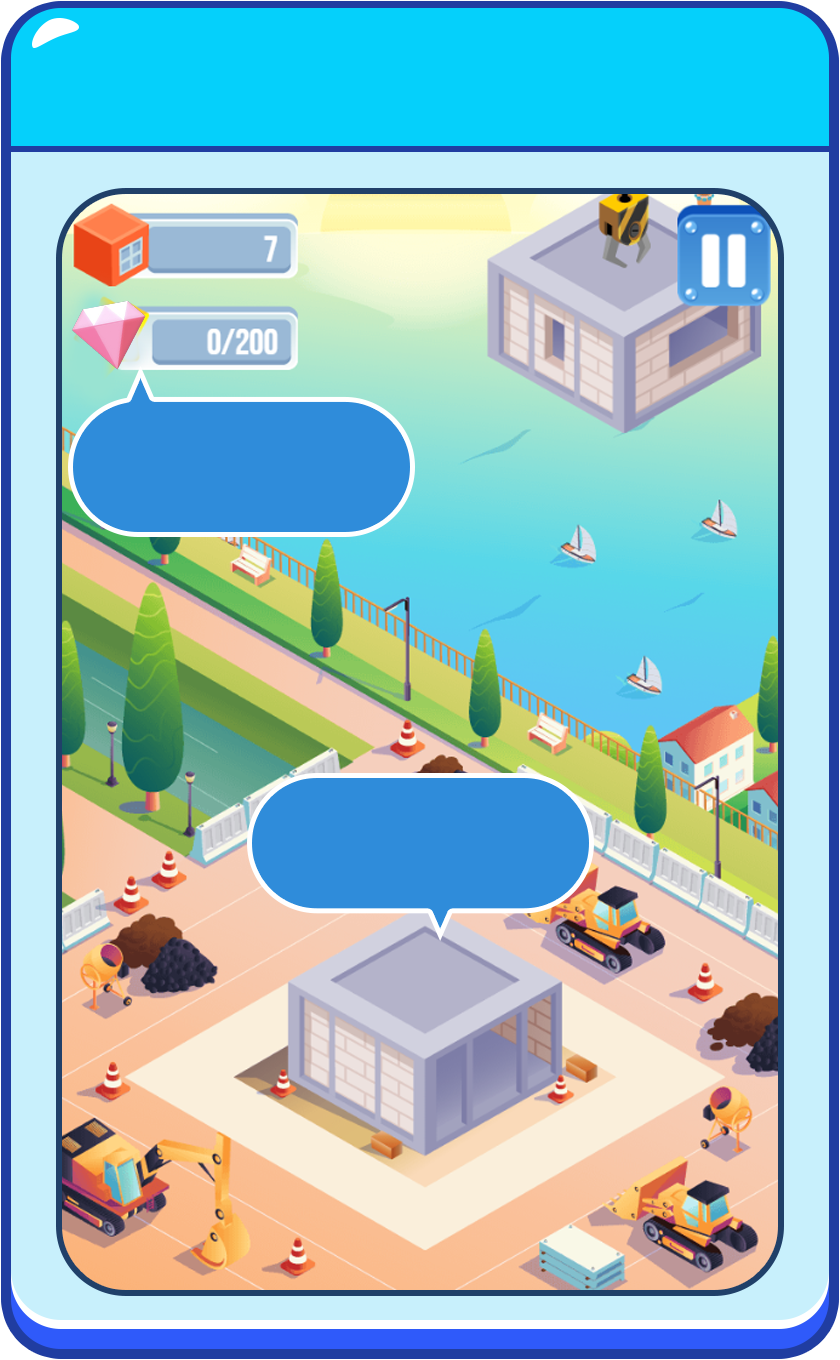
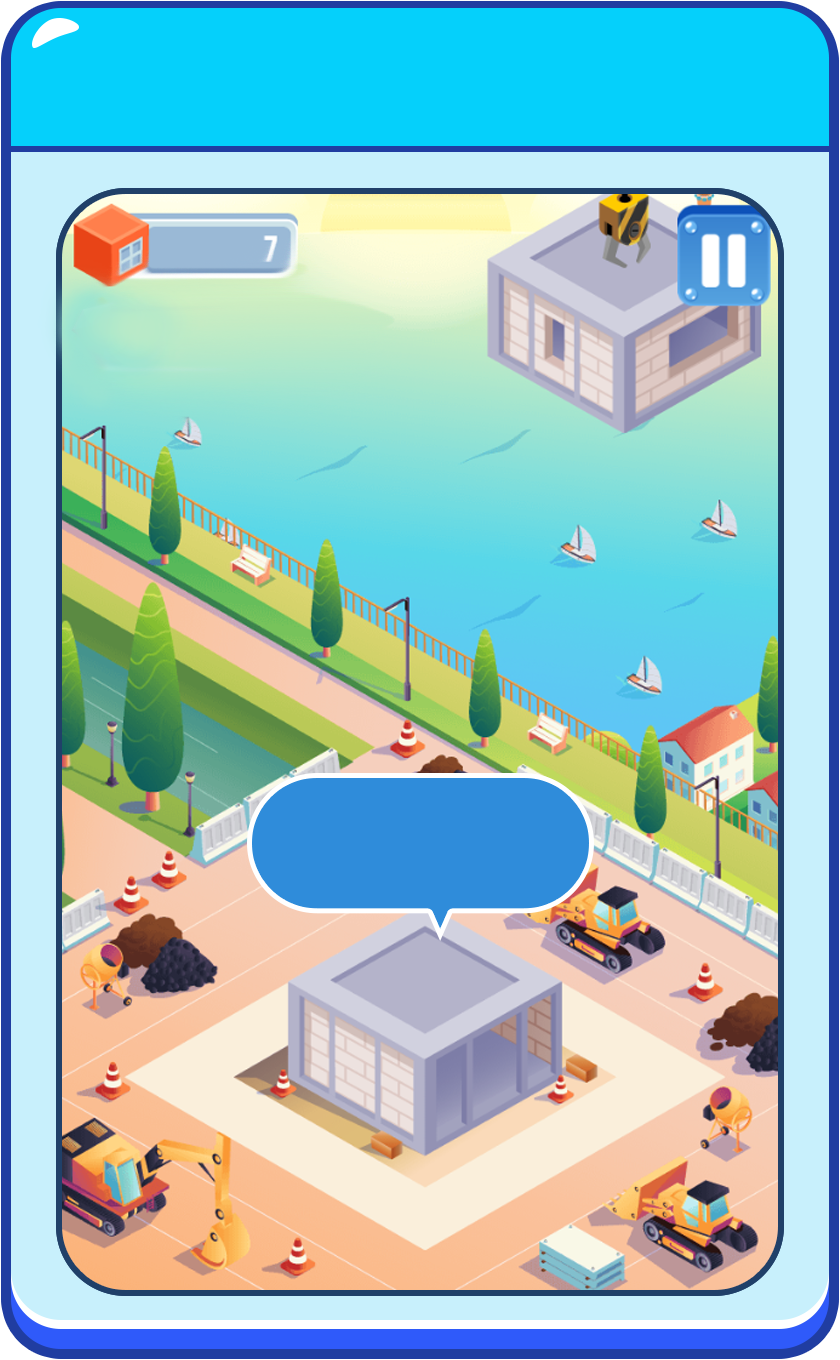
Ui changes in FTUE , gameplay and win lose screen

Changed region(s): [[0.0619, 0.1853, 0.4952, 0.4015]]

diff --git a/src/scenes/LevelSelect.ts b/src/scenes/LevelSelect.ts
@@ -68,6 +68,19 @@ export default class LevelSelect extends Phaser.Scene {
 		tutorialText.setStyle({ "align": "center", "fontFamily": "CarterOne-Regular", "fontSize": "35px", "stroke": "#000000ff", "strokeThickness": 3 });
 		mapUiContainer.add(tutorialText);
 
+		// levelBase
+		const levelBase = this.add.image(487, 661, "Level-Bg");
+		levelBase.scaleX = 1.8253848813480107;
+		levelBase.scaleY = 1.8253848813480107;
+		mapUiContainer.add(levelBase);
+
+		// lockImg
+		const lockImg = this.add.image(482, 644, "LockIcon");
+		lockImg.scaleX = 0.40805543546350576;
+		lockImg.scaleY = 0.40805543546350576;
+		lockImg.visible = false;
+		mapUiContainer.add(lockImg);
+
 		// popupDark
 		const popupDark = this.add.rectangle(0, 0, 720, 1080);
 		popupDark.scaleX = 1.505657351827596;
@@ -153,7 +166,6 @@ export default class LevelSelect extends Phaser.Scene {
 		// game_start_panel_container
 		const game_start_panel_container = this.add.container(540, 960);
 		game_start_panel_container.name = "game_start_panel_container";
-		game_start_panel_container.visible = false;
 
 		// blur_bg_1
 		const blur_bg_1 = this.add.image(8, 0, "blur-bg");
@@ -168,6 +180,7 @@ export default class LevelSelect extends Phaser.Scene {
 		// naz_text3
 		const naz_text3 = this.add.image(-172, -168, "naz-text3");
 		naz_text3.name = "naz_text3";
+		naz_text3.visible = false;
 		game_start_panel_container.add(naz_text3);
 
 		// naz_text1
@@ -221,6 +234,8 @@ export default class LevelSelect extends Phaser.Scene {
 		this.locationMarker = locationMarker;
 		this.tutorialBG = tutorialBG;
 		this.tutorialText = tutorialText;
+		this.levelBase = levelBase;
+		this.lockImg = lockImg;
 		this.mapUiContainer = mapUiContainer;
 		this.popupDark = popupDark;
 		this.popupBg = popupBg;
@@ -245,6 +260,8 @@ export default class LevelSelect extends Phaser.Scene {
 	private locationMarker!: Phaser.GameObjects.Image;
 	private tutorialBG!: Phaser.GameObjects.Image;
 	private tutorialText!: Phaser.GameObjects.Text;
+	private levelBase!: Phaser.GameObjects.Image;
+	private lockImg!: Phaser.GameObjects.Image;
 	private mapUiContainer!: Phaser.GameObjects.Container;
 	private popupDark!: Phaser.GameObjects.Rectangle;
 	private popupBg!: Phaser.GameObjects.Image;
@@ -267,6 +284,9 @@ export default class LevelSelect extends Phaser.Scene {
     private previousPanel: string = GAME_PANEL.NONE;
     private currentPanel: string = GAME_PANEL.NONE;
     private completedBuildings: Phaser.GameObjects.Image[] = [];
+    private levelLabels: Phaser.GameObjects.Text[] = [];
+    private lockBases: Phaser.GameObjects.Image[] = [];
+    private lockIcons: Phaser.GameObjects.Image[] = [];
     private homeBtnNode!: Phaser.GameObjects.Sprite;
     private startBtnNode!: Phaser.GameObjects.Sprite;
     private popupPlayBtnNode!: Phaser.GameObjects.Sprite;
@@ -500,6 +520,12 @@ export default class LevelSelect extends Phaser.Scene {
     private renderLevelMap(): void {
         this.completedBuildings.forEach((item) => item.destroy());
         this.completedBuildings = [];
+        this.levelLabels.forEach((t) => t.destroy());
+        this.levelLabels = [];
+        this.lockBases.forEach((b) => b.destroy());
+        this.lockBases = [];
+        this.lockIcons.forEach((i) => i.destroy());
+        this.lockIcons = [];
 
         LEVELS.forEach((data, index) => {
             if (index < gameState.currentLevel) {
@@ -521,36 +547,80 @@ export default class LevelSelect extends Phaser.Scene {
 
                 this.mapWorldContainer.add(building);
                 this.completedBuildings.push(building);
+            } else if (index !== gameState.currentLevel) {
+                // Locked level — layer order: levelBase (bottom) → lockImg → Level text (top)
+
+                // 1. Base platform
+                const base = this.add.image(data.x, data.y+10, "Level-Bg").setOrigin(0.5, 0.5);
+                base.scaleX = 1.8253848813480;
+                base.scaleY = 1.8253848813480;
+                this.mapWorldContainer.add(base);
+                this.lockBases.push(base);
+
+                // 2. Lock icon
+                const lock = this.add.image(data.x, data.y-30, "LockIcon").setOrigin(0.5, 0.5);
+                lock.scaleX = 0.40805543546350576;
+                lock.scaleY = 0.40805543546350576;
+                this.mapWorldContainer.add(lock);
+                this.lockIcons.push(lock);
+
+                // 3. Level label (topmost)
+                const label = this.add.text(
+                    data.x,
+                    data.y+30,
+                    `Level ${index + 1}`,
+                    {
+                        fontFamily: "CarterOne-Regular",
+                        fontSize: "38px",
+                        color: "#ffffff",
+                        stroke: "#000000",
+                        strokeThickness: 6,
+                        align: "center"
+                    }
+                ).setOrigin(0.5, 0.5);
+                this.mapWorldContainer.add(label);
+                this.levelLabels.push(label);
             }
         });
 
-        // Position the "next unlock" button at the current (locked) level slot
-        const current = LEVELS[gameState.currentLevel] ?? LEVELS[LEVELS.length - 1];
-        this.startLevelButton.setPosition(current.x, current.y);
-        this.locationMarker.setPosition(current.x, current.y - 120);
+        const allLevelsComplete = gameState.currentLevel >= LEVELS.length;
 
-        // Position tutorial elements relative to locationMarker (preserving original y offsets: +278, +293)
-        this.tutorialBG.setPosition(current.x, this.locationMarker.y + 278);
-        this.tutorialText.setPosition(current.x, this.locationMarker.y + 293);
-
-        const ordinals = ["first", "second", "third", "fourth", "fifth", "sixth", "seventh", "eighth"];
-        const ordinal = ordinals[gameState.currentLevel] ?? `${gameState.currentLevel + 1}th`;
-        this.tutorialText.setText(`Tap here for the \n${ordinal} level`);
-
+        // Hide start button, marker and tutorial when all levels are done
+        this.startLevelButton.setVisible(!allLevelsComplete);
+        this.locationMarker.setVisible(!allLevelsComplete);
+        this.tutorialBG.setVisible(!allLevelsComplete);
+        this.tutorialText.setVisible(!allLevelsComplete);
         this.tweens.killTweensOf(this.locationMarker);
-        this.tweens.add({
-            targets: this.locationMarker,
-            y: this.locationMarker.y - 80,
-            duration: 600,
-            ease: "Sine.easeInOut",
-            yoyo: true,
-            repeat: -1
-        });
+
+        if (!allLevelsComplete) {
+            // Position the "next unlock" button at the current (locked) level slot
+            const current = LEVELS[gameState.currentLevel];
+            this.startLevelButton.setPosition(current.x, current.y);
+            this.locationMarker.setPosition(current.x, current.y - 120);
+
+            // Position tutorial elements relative to locationMarker (preserving original y offsets: +278, +293)
+            this.tutorialBG.setPosition(current.x, this.locationMarker.y + 278);
+            this.tutorialText.setPosition(current.x, this.locationMarker.y + 293);
+
+            const ordinals = ["first", "second", "third", "fourth", "fifth", "sixth", "seventh", "eighth"];
+            const ordinal = ordinals[gameState.currentLevel] ?? `${gameState.currentLevel + 1}th`;
+            this.tutorialText.setText(`Tap here for the \n${ordinal} level`);
+
+            this.tweens.add({
+                targets: this.locationMarker,
+                y: this.locationMarker.y - 80,
+                duration: 600,
+                ease: "Sine.easeInOut",
+                yoyo: true,
+                repeat: -1
+            });
+        }
     }
 
     private updateTutorialVisibility(): void {
-        this.tutorialBG.setVisible(true);
-        this.tutorialText.setVisible(true);
+        const allLevelsComplete = gameState.currentLevel >= LEVELS.length;
+        this.tutorialBG.setVisible(!allLevelsComplete);
+        this.tutorialText.setVisible(!allLevelsComplete);
     }
 
     private hideTutorial(): void {

diff --git a/src/scenes/Level.ts b/src/scenes/Level.ts
@@ -285,6 +285,7 @@ export default class Level extends Phaser.Scene {
 		const highScore_Panel_1 = this.add.image(52, 189, "bar-points");
 		highScore_Panel_1.scaleX = 1.1785911243279024;
 		highScore_Panel_1.scaleY = 1.1785911243279024;
+		highScore_Panel_1.visible = false;
 		top_ui_container.add(highScore_Panel_1);
 
 		// gem
@@ -292,23 +293,25 @@ export default class Level extends Phaser.Scene {
 		gem.name = "gem";
 		gem.scaleX = 0.8395470376849977;
 		gem.scaleY = 0.8395470376849977;
+		gem.visible = false;
 		top_ui_container.add(gem);
 
 		// txtPoints
 		const txtPoints = this.add.text(81, 195, "", {});
 		txtPoints.setOrigin(0.5, 0.5);
+		txtPoints.visible = false;
 		txtPoints.text = "0/0";
 		txtPoints.setStyle({ "align": "right", "fontFamily": "CarterOne-Regular", "fontSize": "35px" });
 		top_ui_container.add(txtPoints);
 
 		// highScore_Panel_2
-		const highScore_Panel_2 = this.add.image(47, 299, "bar-blocks");
+		const highScore_Panel_2 = this.add.image(47, 187, "bar-blocks");
 		highScore_Panel_2.scaleX = 1.1028507950415196;
 		highScore_Panel_2.scaleY = 1.1028507950415196;
 		top_ui_container.add(highScore_Panel_2);
 
 		// txtBlocks
-		const txtBlocks = this.add.text(96, 304, "", {});
+		const txtBlocks = this.add.text(96, 192, "", {});
 		txtBlocks.setOrigin(1, 0.5);
 		txtBlocks.text = "0";
 		txtBlocks.setStyle({ "align": "right", "fontFamily": "CarterOne-Regular", "fontSize": "35px" });
@@ -413,12 +416,17 @@ export default class Level extends Phaser.Scene {
 		const low_score = this.add.text(816, 1075, "", {});
 		low_score.name = "low_score";
 		low_score.setOrigin(0.5, 0.5);
+		low_score.visible = false;
 		low_score.text = "000";
 		low_score.setStyle({ "align": "center", "color": "#ffffffff", "fontFamily": "CarterOne-Regular", "fontSize": "85PX", "stroke": "#1a60b6", "strokeThickness": 10 });
 		game_over_lose_panel_container.add(low_score);
 
+		// image_5
+		const image_5 = this.add.image(522, 1025, "SuperCoinBG");
+		game_over_lose_panel_container.add(image_5);
+
 		// Supercoin_text
-		const supercoin_text = this.add.text(419, 1074, "", {});
+		const supercoin_text = this.add.text(571, 1059, "", {});
 		supercoin_text.setOrigin(0.5, 0.5);
 		supercoin_text.text = "0";
 		supercoin_text.setStyle({ "align": "center", "fontFamily": "CarterOne-Regular", "fontSize": "85px", "stroke": "#a77203ff", "strokeThickness": 10 });
@@ -426,6 +434,7 @@ export default class Level extends Phaser.Scene {
 
 		// gem_3
 		const gem_3 = this.add.image(648, 1074, "gem");
+		gem_3.visible = false;
 		game_over_lose_panel_container.add(gem_3);
 
 		// logo1
@@ -435,6 +444,10 @@ export default class Level extends Phaser.Scene {
 		// exit_from_lose_screen_btn
 		const exit_from_lose_screen_btn = this.add.image(540, 1522, "exit-game-btn");
 		game_over_lose_panel_container.add(exit_from_lose_screen_btn);
+
+		// image_6
+		const image_6 = this.add.image(473, 1061, "Coin");
+		game_over_lose_panel_container.add(image_6);
 
 		// game_over_win_panel_container
 		const game_over_win_panel_container = this.add.container(0, 0);
@@ -497,6 +510,7 @@ export default class Level extends Phaser.Scene {
 		const high_score_1 = this.add.text(810, 1076, "", {});
 		high_score_1.name = "high_score_1";
 		high_score_1.setOrigin(0.5, 0.5);
+		high_score_1.visible = false;
 		high_score_1.text = "000";
 		high_score_1.setStyle({ "align": "center", "color": "#ffffffff", "fontFamily": "CarterOne-Regular", "fontSize": "85PX", "stroke": "#1a60b6", "strokeThickness": 10 });
 		game_over_win_panel_container.add(high_score_1);
@@ -505,6 +519,7 @@ export default class Level extends Phaser.Scene {
 		const gem_2 = this.add.image(652, 1076, "gem");
 		gem_2.scaleX = 1.1889856074071514;
 		gem_2.scaleY = 1.1889856074071514;
+		gem_2.visible = false;
 		game_over_win_panel_container.add(gem_2);
 
 		// Bottom_text_2
@@ -516,8 +531,12 @@ export default class Level extends Phaser.Scene {
 		bottom_text_2.setStyle({ "color": "#ffffffff", "fontFamily": "CarterOne-Regular", "fontSize": "70PX", "stroke": "#0d6b00ff", "strokeThickness": 12 });
 		game_over_win_panel_container.add(bottom_text_2);
 
+		// image_3
+		const image_3 = this.add.image(528, 1027, "SuperCoinBG");
+		game_over_win_panel_container.add(image_3);
+
 		// Supercoin_text1
-		const supercoin_text1 = this.add.text(386, 1075, "", {});
+		const supercoin_text1 = this.add.text(589, 1052, "", {});
 		supercoin_text1.setOrigin(0.5, 0.5);
 		supercoin_text1.text = "0";
 		supercoin_text1.setStyle({ "align": "center", "fontFamily": "CarterOne-Regular", "fontSize": "85px", "stroke": "#a77203ff", "strokeThickness": 10 });
@@ -534,6 +553,10 @@ export default class Level extends Phaser.Scene {
 		// exit_from_win_screen_btn_1
 		const exit_from_win_screen_btn_1 = this.add.image(540, 1556, "exit-game-btn");
 		game_over_win_panel_container.add(exit_from_win_screen_btn_1);
+
+		// image_4
+		const image_4 = this.add.image(474, 1053, "Coin");
+		game_over_win_panel_container.add(image_4);
 
 		// game_over_panel_container
 		const game_over_panel_container = this.add.container(517, 789);
@@ -2086,7 +2109,7 @@ export default class Level extends Phaser.Scene {
 				onComplete: () => {
 					this.blockTop.y -= minusY;
 					this.blockTop.setVisible(true);
-					if (LEVELS[gameState.currentLevel].blockAmount - gameState.totalStackedBlocks === 1) {
+					if (LEVELS[this.playingLevelIndex].blockAmount - gameState.totalStackedBlocks === 1) {
 						this.blockTop.setTexture("block-top");
 					}
 					this.claw.setTexture("claw1");
@@ -2162,11 +2185,9 @@ export default class Level extends Phaser.Scene {
 		/** Decides win/lose once the final block has landed. */
 		const buildingFinish = (): void => {
 			if (this.currentPoints >= this.requiredPoints) {
-				// Advance level only if this wasn't a replay
-				if (gameState.currentLevel < LEVELS.length - 1) {
-					const isReplay = this.playingLevelIndex !== gameState.currentLevel;
-					if (!isReplay) setCurrentLevel(gameState.currentLevel + 1);
-				}
+				// Advance level on win (including last level → currentLevel becomes LEVELS.length)
+				const isReplay = this.playingLevelIndex !== gameState.currentLevel;
+				if (!isReplay) setCurrentLevel(gameState.currentLevel + 1);
 				this.changeGameState(GAME_STATE.GAME_OVER_WIN);
 			} else {
 				this.changeGameState(GAME_STATE.GAME_OVER_LOSE);

diff --git a/src/data/levels.ts b/src/data/levels.ts
@@ -14,8 +14,8 @@ export const LEVELS: LevelDefinition[] = [
     { x: 490, y: 649, pointRequired: 525, blockAmount: 25, building: "building4" },
     { x: 270, y: 1598, pointRequired: 600, blockAmount: 30, building: "building5" },
     { x: 544, y: 1443, pointRequired: 735, blockAmount: 35, building: "building6" },
-    { x: 335, y: 286, pointRequired: 750, blockAmount: 35, building: "building7" },
-    { x: 987, y: 177, pointRequired: 787, blockAmount: 35, building: "building8" }
+    { x: 364, y: 313, pointRequired: 750, blockAmount: 35, building: "building7" },
+    { x: 936, y: 172, pointRequired: 787, blockAmount: 35, building: "building8" }
 ];
 
 export const LEVEL_BUILDING_OFFSET_Y = 100;
